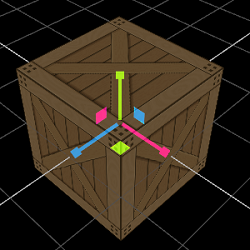
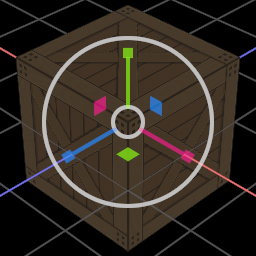
Updated screenshots in README.md

diff --git a/README.md b/README.md
@@ -8,7 +8,7 @@
 
 [Try it out in a web demo](https://urholaukkarinen.github.io/egui-gizmo/)
 
-![Rotation](media/rotation.gif)
+![Rotation](media/rotation.png)
 ![Translation](media/translation.png)
 ![Scale](media/scale.png)
 
